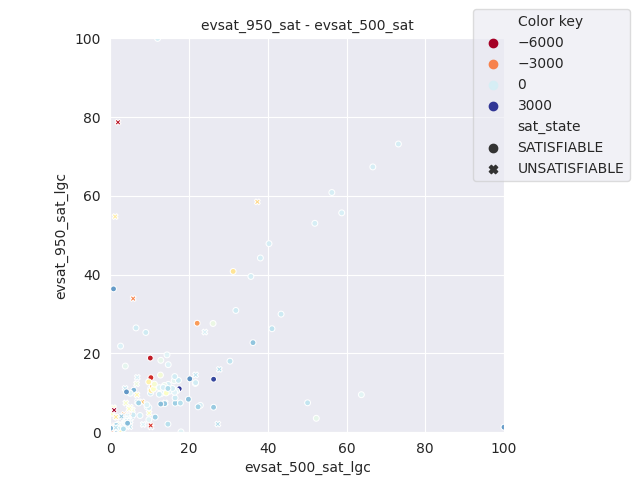
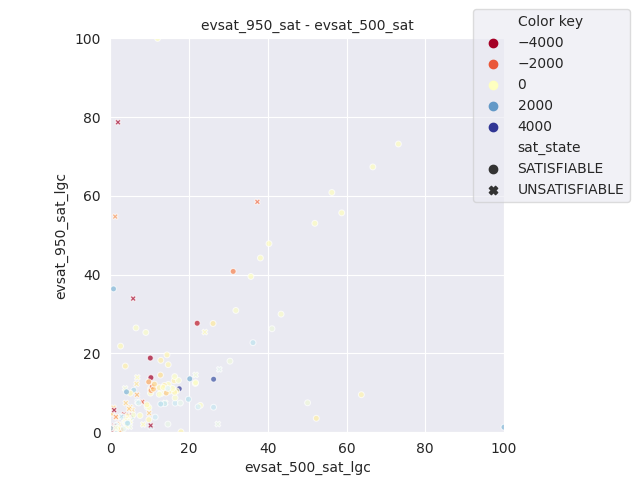
updated results

diff --git a/scorefactor_exp/results5/results.md b/scorefactor_exp/results5/results.md
@@ -11,10 +11,12 @@
 ### Scatter lgc plots of each pair of configurations
 with heat coding based on difference in solve time
 
-![lgc_950_sat_500_sat](./images/lgc_evsat_950_sat-evsat_500_sat.png)
-![lgc_950_sat_500_unsat](./images/lgc_evsat_950_sat-evsat_500_unsat.png)
-![lgc_950_unsat_950_sat](./images/lgc_evsat_950_unsat-evsat_950_sat.png)
-![lgc_950_unsat_500_sat](./images/lgc_evsat_950_unsat-evsat_500_sat.png)
-![lgc_950_unsat_500_unsat](./images/lgc_evsat_950_unsat-evsat_500_unsat.png)
-![lgc_500_unsat_500_sat](./images/lgc_evsat_500_unsat-evsat_500_sat.png)
+![500_sat_lgc_500_sat](./images/lgc_evsat_500_sat-lgc_dvsat_500_sat.png)
+![950_unsat_lgc_950_unsat](./images/lgc_evsat_500_unsat-lgc_dvsat_500_unsat.png)
+![950_unsat_lgc_950_unsat](./images/lgc_evsat_950_unsat-lgc_dvsat_950_unsat.png)
+![lgc_500_unsat_lgc_500_sat](./images/lgc_dvsat_500_unsat-lgc_dvsat_500_sat.png)
+
+### for reference
+![500_sat_500_unsat](./images/lgc_evsat_500_unsat-evsat_500_sat.png)
+
 
